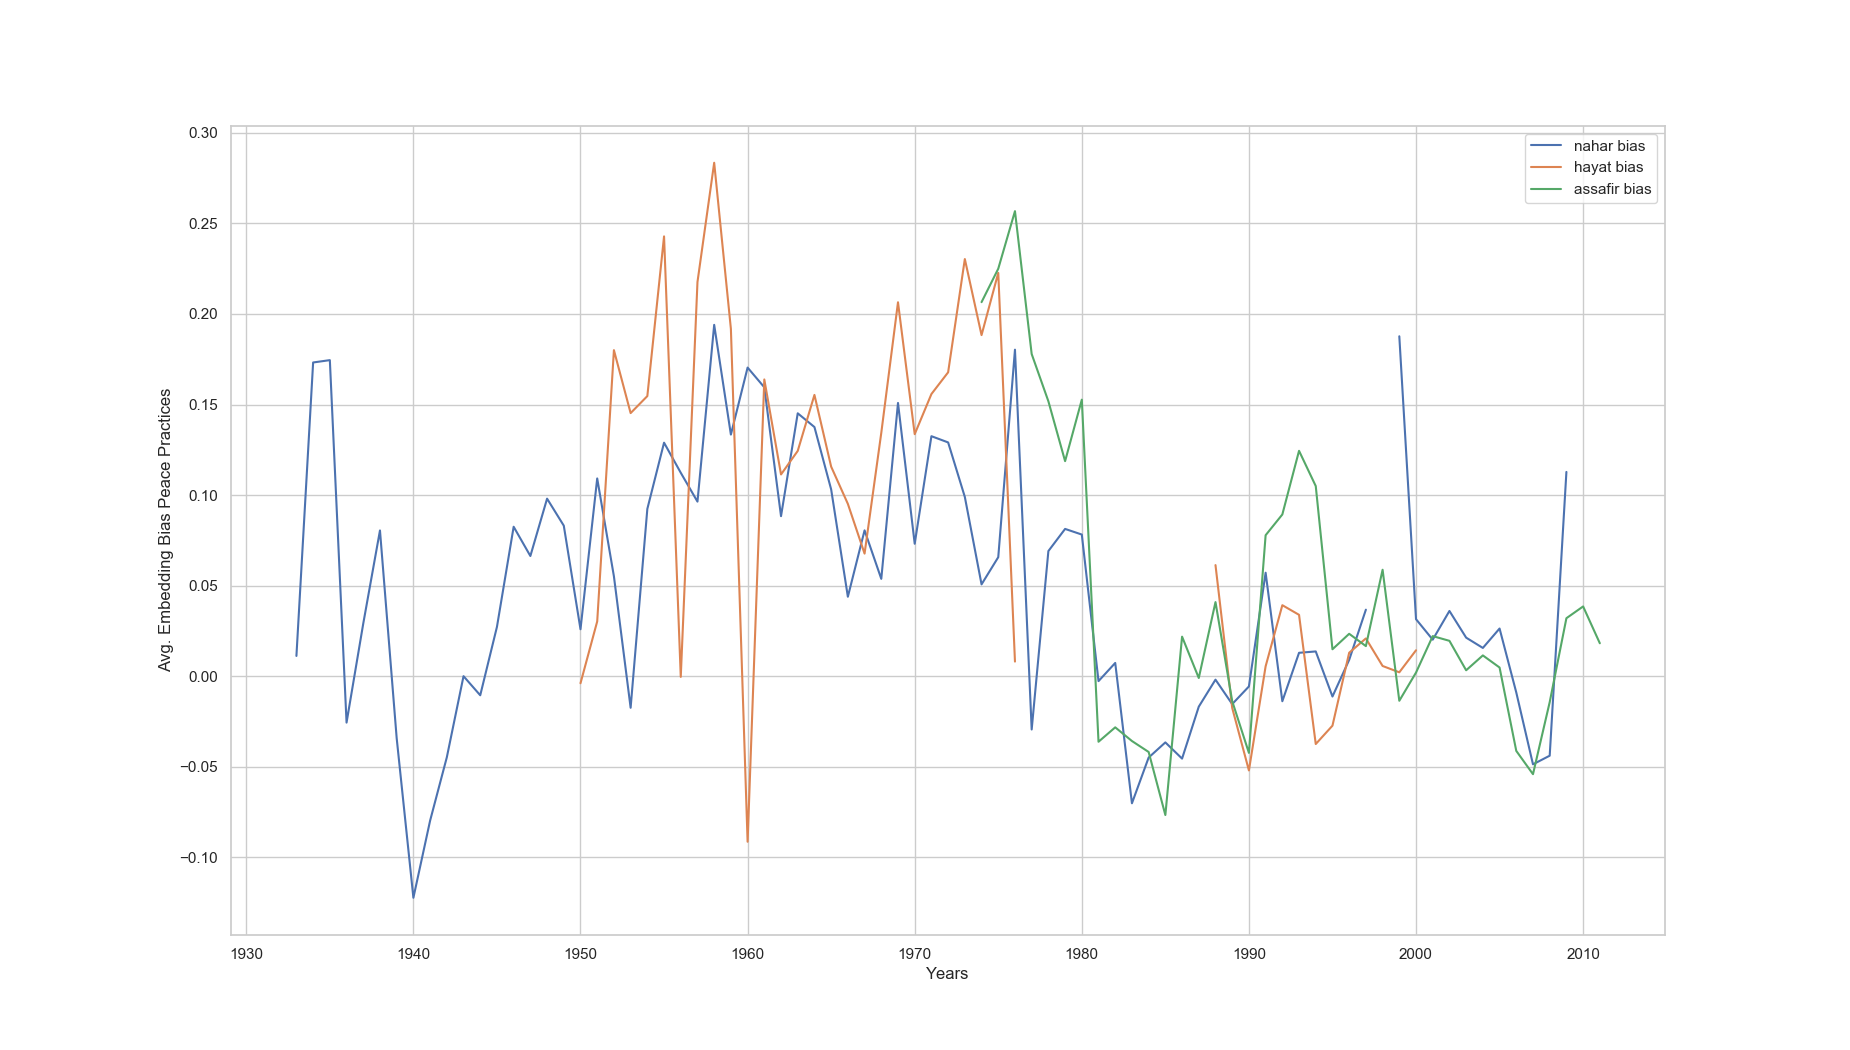
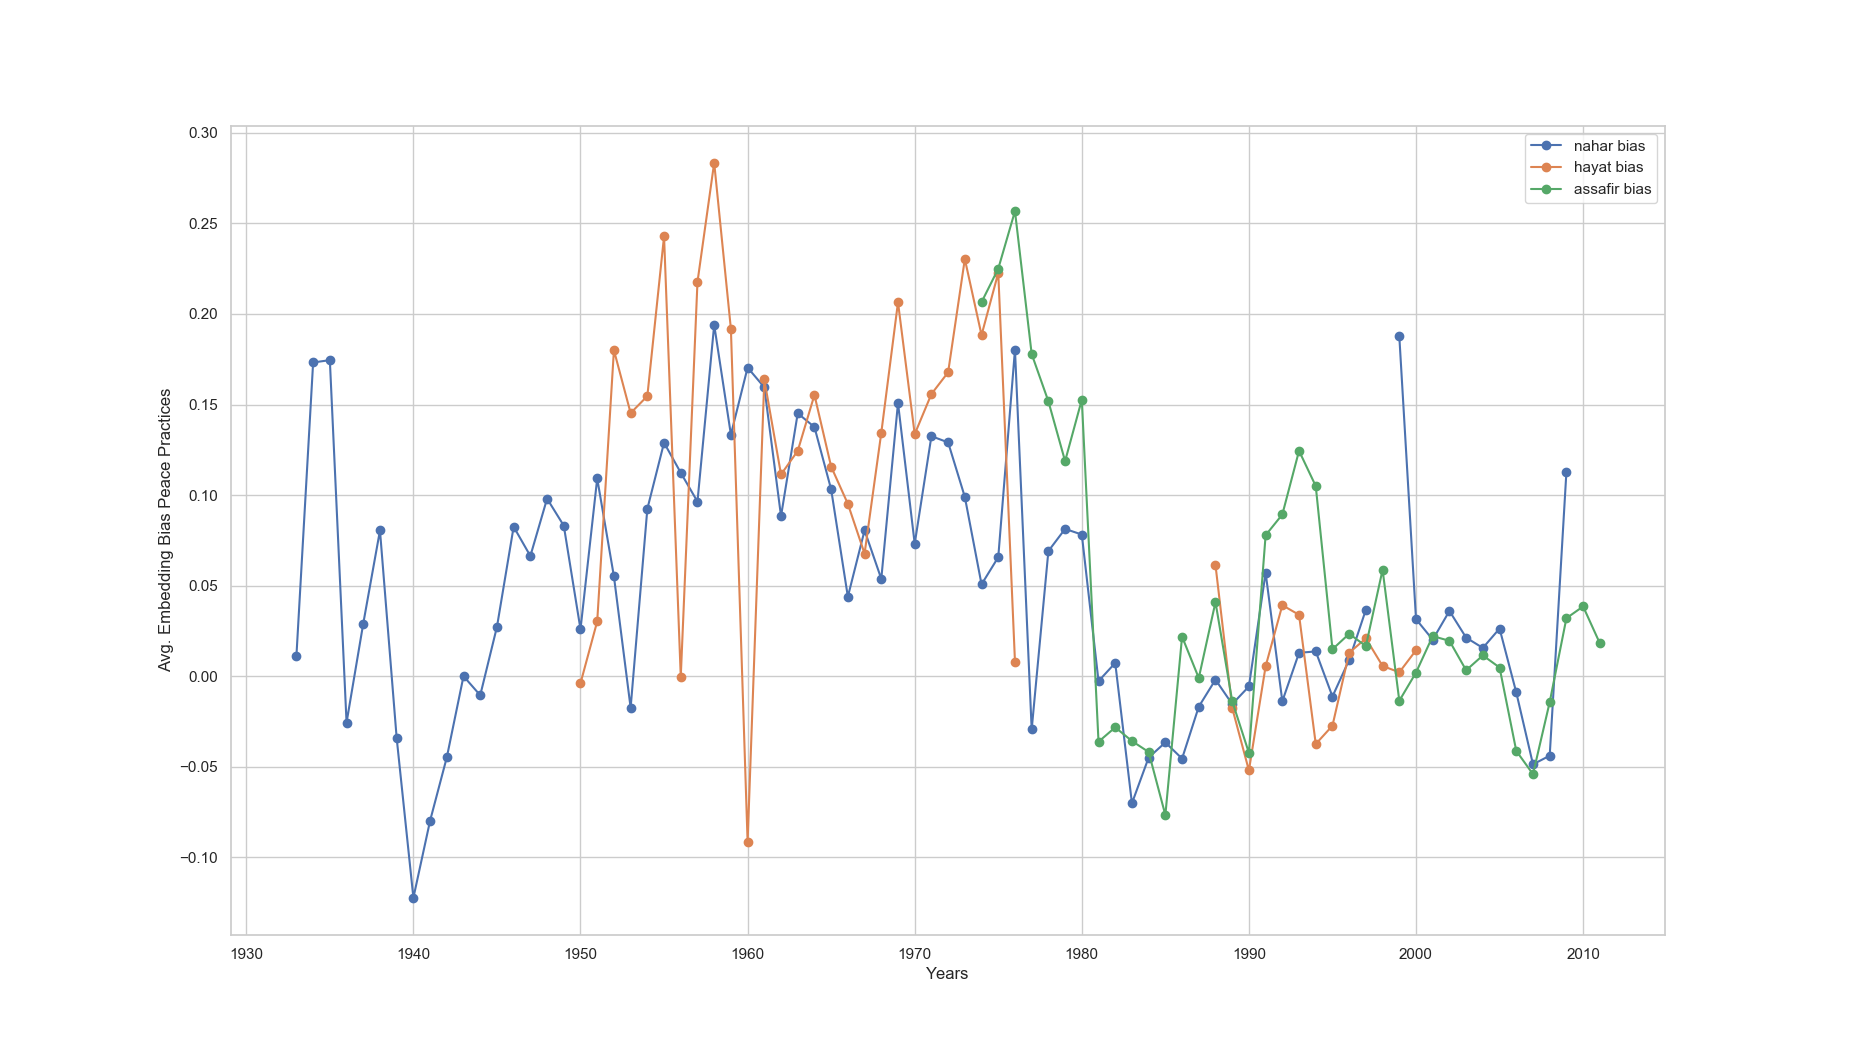
added heatmap and bias over time vs casualties

diff --git a/bias/plotting.py b/bias/plotting.py
@@ -1,31 +1,31 @@
 import plotly.graph_objects as go
+import plotly.figure_factory as ff
 import os
 import pandas as pd
+import numpy as np
 import statsmodels.api as sm
 import seaborn as sns
-sns.set(style="whitegrid") #TODO test this whitegrid, otherwise remove
+sns.set(style="whitegrid")
 import matplotlib.pyplot as plt
+from scipy.stats.stats import pearsonr
+from scipy.signal import savgol_filter
+
+casualties = pd.read_csv('casualties/casualties_1988_2011.csv')
+casualties_dict = {}
+for i, row in casualties.iterrows():
+    year = int(row['Year'])
+    israeli_cas = int(row['Israelis'])
+    palestinian_cas = int(row['Palestinians'])
+
+    casualties_dict[year] = {
+        'israel': israeli_cas,
+        'palestine': palestinian_cas
+    }
 
 
 def mkdir(dir_name):
     if not os.path.exists(dir_name):
         os.makedirs(dir_name)
-
-# def plot_overtime_scatter(wl1, wl2, nl, arch, years, ):
-#     arch = 'nahar'
-#     biases_diff, casualties_diff = [], []
-#     for year in range(1988, 2012):
-#         emb_bias = get_embedding_bias_by_year(word_list1=participants_israel, word_list2=participants_palestine,
-#                                               neutral_list=terrorism_list,
-#                                               archive=arch,
-#                                               year=year,
-#                                               distype='cossim',
-#                                               wemb_path=archives_wordembeddings[arch])
-#         cas_diff = get_casualties_diff_by_year(year)
-#         biases_diff.append(emb_bias)
-#         casualties_diff.append(cas_diff)
-#
-#         print('year: {}, embedding_bias: {}'.format(year, emb_bias))
 
 
 def plot_bias_overtime_scatter_casualties(biases_cass, ylab, fig_name, out_folder):
@@ -60,6 +60,46 @@ def plot_bias_overtime_scatter_casualties(biases_cass, ylab, fig_name, out_folde
         f.close()
 
 
+def plot_embedding_bias_census(embedding_biases, bias_type, archive, start_year, end_year, ylab, output_folder, figname):
+    all_years = list(range(int(start_year), int(end_year) + 1))
+    years_available = embedding_biases[archive][bias_type]['years']
+    biases, casualties_diff = [], []
+    # get bias corresponding to each year of interest
+    for i, year in enumerate(years_available):
+        if int(year) in all_years:
+            biases.append(embedding_biases[archive][bias_type]['biases'][i])
+
+    biases_sm = savgol_filter(biases, 17, 3)
+
+    for year in all_years:
+        israeli_cas = casualties_dict[year]['israel']
+        palestinian_cas = casualties_dict[year]['palestine']
+        casualties_diff.append(israeli_cas - palestinian_cas)
+
+    casualties_diff_sm = savgol_filter(casualties_diff, 17, 3)
+
+    # some confidence interval
+    ci_bias = 1.96 * np.std(biases) / np.mean(biases)
+    ci_casualties = 1.96 * np.std(casualties_diff)/np.mean(casualties_diff)
+
+    fig, ax1 = plt.subplots()
+    ax2 = ax1.twinx()
+    ax1.plot(all_years, biases_sm, 'g-', marker='o')
+    # ax1.fill_between(all_years, (biases_sm - ci_bias), (biases_sm + ci_bias), color='g', alpha=.1)
+    ax2.plot(all_years, casualties_diff_sm, 'b-', marker='o')
+    # ax2.fill_between(all_years, (casualties_diff_sm - ci_casualties), (casualties_diff_sm + ci_casualties), color='b', alpha=.1)
+
+    ax1.set_xlabel('Years')
+    ax1.set_ylabel(ylab, color='g')
+    ax2.set_ylabel('Casualties difference', color='b')
+
+    mkdir(output_folder)
+    fig.set_size_inches(18.5, 10.5)
+    fig.savefig(os.path.join(output_folder, '{}_{}'.format(figname, archive)))
+    plt.close()
+    # fig.close()
+
+
 def plot_embedding_bias_time(embedding_biases, output_dir, fig_names, ylabs):
     mkdir(output_dir)
     min_year, max_year = -1, -1
@@ -70,24 +110,11 @@ def plot_embedding_bias_time(embedding_biases, output_dir, fig_names, ylabs):
     all_years = list(range(min_year, max_year + 1))
 
     for i in range(len(fig_names)):
-        # fig = go.Figure()
         # get the ith data from each archive
         for archive in embedding_biases:
             bias = embedding_biases[archive][i]['biases']
-            plt.plot(all_years, bias, label='{} bias'.format(archive))
-            # fig.add_trace(go.Scatter(
-            #     x=all_years,
-            #     y=embedding_biases[archive][i]['biases'],
-            #     name='<b>{}</b> bias'.format(archive), # Style name/legend entry with html tags
-            #     connectgaps=True,# override default to connect the gaps
-            #     mode='lines+markers'
-            # ))
+            plt.plot(all_years, bias, label='{} bias'.format(archive), marker='o')
 
-        # fig.update_layout(width=1500,
-        #                   xaxis_title='Years',
-        #                   yaxis_title=ylabs[i])
-        # fig.write_image((os.path.join(output_dir, '{}.png'.format(fig_names[i]))))
-        # fig.write_html((os.path.join(output_dir, '{}.html'.format(fig_names[i]))))
         plt.xlabel('Years')
         plt.ylabel(ylabs[i])
         plt.legend(loc='best')
@@ -96,32 +123,38 @@ def plot_embedding_bias_time(embedding_biases, output_dir, fig_names, ylabs):
         fig.savefig(os.path.join(output_dir, '{}.png'.format(fig_names[i])))
         plt.close()
 
-# def plot_embedding_bias_time(embedding_biases, output_dir, fig_names, ylabs):
-#     mkdir(output_dir)
-#     min_year, max_year = -1, -1
-#     for archive in embedding_biases:
-#         min_year = min(embedding_biases[archive][0]['years'])
-#         max_year = max(embedding_biases[archive][0]['years'])
-#         break
-#     all_years = list(range(min_year, max_year + 1))
-#
-#     for i in range(len(fig_names)):
-#         fig = go.Figure()
-#         # get the ith data from each archive
-#         for archive in embedding_biases:
-#             fig.add_trace(go.Scatter(
-#                 x=all_years,
-#                 y=embedding_biases[archive][i]['biases'],
-#                 name='<b>{}</b> bias'.format(archive), # Style name/legend entry with html tags
-#                 connectgaps=True,# override default to connect the gaps
-#                 mode='lines+markers'
-#             ))
-#
-#         fig.update_layout(width=1500,
-#                           xaxis_title='Years',
-#                           yaxis_title=ylabs[i])
-#         fig.write_image((os.path.join(output_dir, '{}.png'.format(fig_names[i]))))
-#         # fig.write_html((os.path.join(output_dir, '{}.html'.format(fig_names[i]))))
+
+def cross_time_correlation_heatmap(embedding_biases, archive, output_dir, start_year, end_year, fig_name):
+
+    all_years = list(range(start_year, end_year+1))
+    heatmap = np.zeros((len(all_years), len(all_years)))
+    heatmap_pvalues = np.zeros((len(all_years), len(all_years)))
+    for p1 in range(len(all_years)):
+        for p2 in range(len(all_years)):
+
+            value, p_value = pearsonr([embedding_biases[archive][i]['biases'][p1] for i in range(len(embedding_biases))],
+                                      [embedding_biases[archive][i]['biases'][p2] for i in range(len(embedding_biases))])
+            heatmap[p1, p2] = float("{:.2f}".format(value))
+            heatmap_pvalues[p1, p2] = p_value
+
+            if p_value <= 0.05:
+                print('{}, {} -> {}'.format(p1, p2, p_value))
+
+    # dtype = np.int16
+    layout_heatmap = go.Layout(
+        xaxis=dict(title='Years'),
+        yaxis=dict(title='Years'),
+    )
+
+    ff_fig = ff.create_annotated_heatmap(x=all_years, y=all_years, z=heatmap.tolist(), showscale=True,
+                                         colorscale='Viridis',)
+    fig = go.FigureWidget(ff_fig)
+    fig.layout = layout_heatmap
+    fig.layout.annotations = ff_fig.layout.annotations
+    fig['layout']['yaxis']['autorange'] = "reversed"
+
+    mkdir(output_dir)
+    fig.write_image(os.path.join(output_dir, '{}_{}.png'.format(fig_name, archive)))
 
 
 def plot_counts(counts_biases, output_dir, fig_name):

diff --git a/bias/create_final_plots_all_new.py b/bias/create_final_plots_all_new.py
@@ -54,7 +54,7 @@ if __name__ == '__main__':
     #     [plot_overtime_scatter, [participants_israel, participants_palestine, peace_practices, list(range(1988, 2012)), 'assafir', 3, 'Israeli-Peace Bias', 'assafir_israeli_peace', 'output/scatter/']],
     # ]
 
-    plots_to_do_bias_casualties_overtime = [
+    plots_to_do_bias_overtime = [
         [get_embedding_bias, [[participants_israel, participants_israel, participants_israel],
                               [participants_palestine, participants_palestine, participants_palestine],
                               [terrorism_list, methods_of_violence, peace_practices],
@@ -64,12 +64,41 @@ if __name__ == '__main__':
     fig_names = ['israel_palestine_terrorism', 'israel_palestine_violence', 'israel_palestine_peace']
     ylabs = ['Avg. Embedding Bias Israeli Terrorism', 'Avg. Embedding Bias Israeli Methods of Violence', 'Avg. Embedding Bias Peace Practices']
 
-    for plot in plots_to_do_bias_casualties_overtime:
-        # print(plot[0], plot[1][1:])
-        # all_embedding_biases = plot[0](*plot[1])
-        # with open('embedding_biases.pickle', 'wb') as handle:
-        #     pickle.dump(all_embedding_biases, handle, protocol=pickle.HIGHEST_PROTOCOL)
-        with open('embedding_biases.pickle', 'rb') as handle:
-            all_embedding_biases = pickle.load(handle)
-        plot_embedding_bias_time(all_embedding_biases, 'output/bias_over_time/', fig_names, ylabs)
+    with open('embedding_biases.pickle', 'rb') as handle:
+        all_embedding_biases = pickle.load(handle)
 
+    # for plot in plots_to_do_bias_overtime:
+    #     # print(plot[0], plot[1][1:])
+    #     # all_embedding_biases = plot[0](*plot[1])
+    #     # with open('embedding_biases.pickle', 'wb') as handle:
+    #     #     pickle.dump(all_embedding_biases, handle, protocol=pickle.HIGHEST_PROTOCOL)
+    #     plot_embedding_bias_time(all_embedding_biases, 'output/bias_over_time/', fig_names, ylabs)
+    #
+    # plots_to_do_heatmap = [
+    #     [cross_time_correlation_heatmap, [all_embedding_biases, 'nahar', 'output/heatmap/', 1933, 1943, 'cross_time_1933_1943']],
+    #     [cross_time_correlation_heatmap, [all_embedding_biases, 'nahar', 'output/heatmap/', 1974, 1984, 'cross_time_1974_1984']],
+    #     [cross_time_correlation_heatmap, [all_embedding_biases, 'nahar', 'output/heatmap/', 2000, 2009, 'cross_time_2000_2009']],
+    #
+    #     # [cross_time_correlation_heatmap, [all_embedding_biases, 'hayat', 'output/heatmap/', 1974, 1984, 'cross_time_1974_1984']],
+    #     # [cross_time_correlation_heatmap, [all_embedding_biases, 'assafir', 'output/heatmap/', 2000, 2009, 'cross_time_2000_2009']],
+    #
+    # ]
+    #
+    # for plot in plots_to_do_heatmap:
+    #     print(plot[0], plot[1][1:])
+    #     plot[0](*plot[1])
+    #     print('==============================================================')
+
+    plots_to_do_bias_casualties_overtime = [
+        [plot_embedding_bias_census, [all_embedding_biases, 0, 'nahar', 1990, 2009, 'Avg. Embedding Bias Israeli Terrorism', 'output/bias_casualties_over_time/', 'israel_palestine_terrorism']],
+        [plot_embedding_bias_census, [all_embedding_biases, 0, 'assafir', 1990, 2011, 'Avg. Embedding Bias Israeli Terrorism', 'output/bias_casualties_over_time/', 'israel_palestine_terrorism']],
+        [plot_embedding_bias_census, [all_embedding_biases, 1, 'nahar', 1990, 2009, 'Avg. Embedding Bias Israeli Methods of Violence', 'output/bias_casualties_over_time/', 'israel_palestine_violence']],
+        [plot_embedding_bias_census, [all_embedding_biases, 1, 'assafir', 1990, 2011, 'Avg. Embedding Bias Israeli Methods of Violence', 'output/bias_casualties_over_time/', 'israel_palestine_violence']],
+        # [plot_embedding_bias_census, [all_embedding_biases, 2, 'nahar', 1990, 2009, 'Avg. Embedding Bias Israeli Peace Practices', 'output/bias_casualties_over_time/', 'israel_palestine_peace']],
+        [plot_embedding_bias_census, [all_embedding_biases, 2, 'assafir', 1990, 2011, 'Avg. Embedding Bias Israeli Peace Practices', 'output/bias_casualties_over_time/', 'israel_palestine_peace']]
+    ]
+
+    for plot in plots_to_do_bias_casualties_overtime:
+        print(plot[0], plot[1][1:])
+        plot[0](*plot[1])
+        print('==============================================================')

diff --git a/bias/translate_lists.py b/bias/translate_lists.py
@@ -1,18 +1,29 @@
 import os
 from googletrans import Translator
 
+'''
+When the lists are translated, some translations become more than one word in arabic,
+therefore each of these word becomes a separate word
+
+NOTE: Unless we tell Word2Vec when we train it to take into account composite words 
+'''
+
 
 def translate_words(txt_file):
-    if not os.path.exists(txt_file):
+    file = os.path.join('keywords/english/', txt_file)
+    if not os.path.exists(file):
         raise ValueError('File {} does not exist'.format(txt_file))
 
     translator = Translator()
-    with open(txt_file, 'r') as f:
-        # Using readlines()
+    with open(file, 'r') as f:
+        # get the terms in english
         terms_english = f.readlines()
-        with open('{}_arabic.txt'.format(txt_file[:-4]), 'w',  encoding="utf-8") as of:
+        # create a file initially empty for putting the translations in arabic
+        with open(os.path.join('keywords/arabic/{}'.format('{}_arabic.txt'.format(txt_file[:-4]))), 'w',  encoding="utf-8") as of:
             for term in terms_english:
+                # translate the term
                 term_ar = translator.translate(term, dest='ar').text
+                # write the translated term on a new line in the file (each term is on a line)
                 of.write(term_ar + '\n')
 
 
@@ -23,8 +34,14 @@ if __name__ == '__main__':
     # translate_words(txt_file='israeli_palestinian_conflict/occupation_practices_arabic.txt')
 
     # translate_words(txt_file='participants_aspect/participants_Israel.txt')
-    translate_words(txt_file='participants_aspect/participants_palestine.txt')
+    # translate_words(txt_file='participants_aspect/participants_palestine.txt')
     # translate_words(txt_file='military_aspect/methods_of_violence.txt')
 
     # translate_words(txt_file='terrorism/terrorism_list.txt')
     # translate_words(txt_file='occupation/occupation_list.txt')
+
+    files = ['break_from_violence.txt', 'diplomatic_routine.txt',
+             'internal_affairs.txt', 'international_law.txt',
+             'terrorism(100yearsofbias).txt']
+    for f in files:
+        translate_words(txt_file=f)
